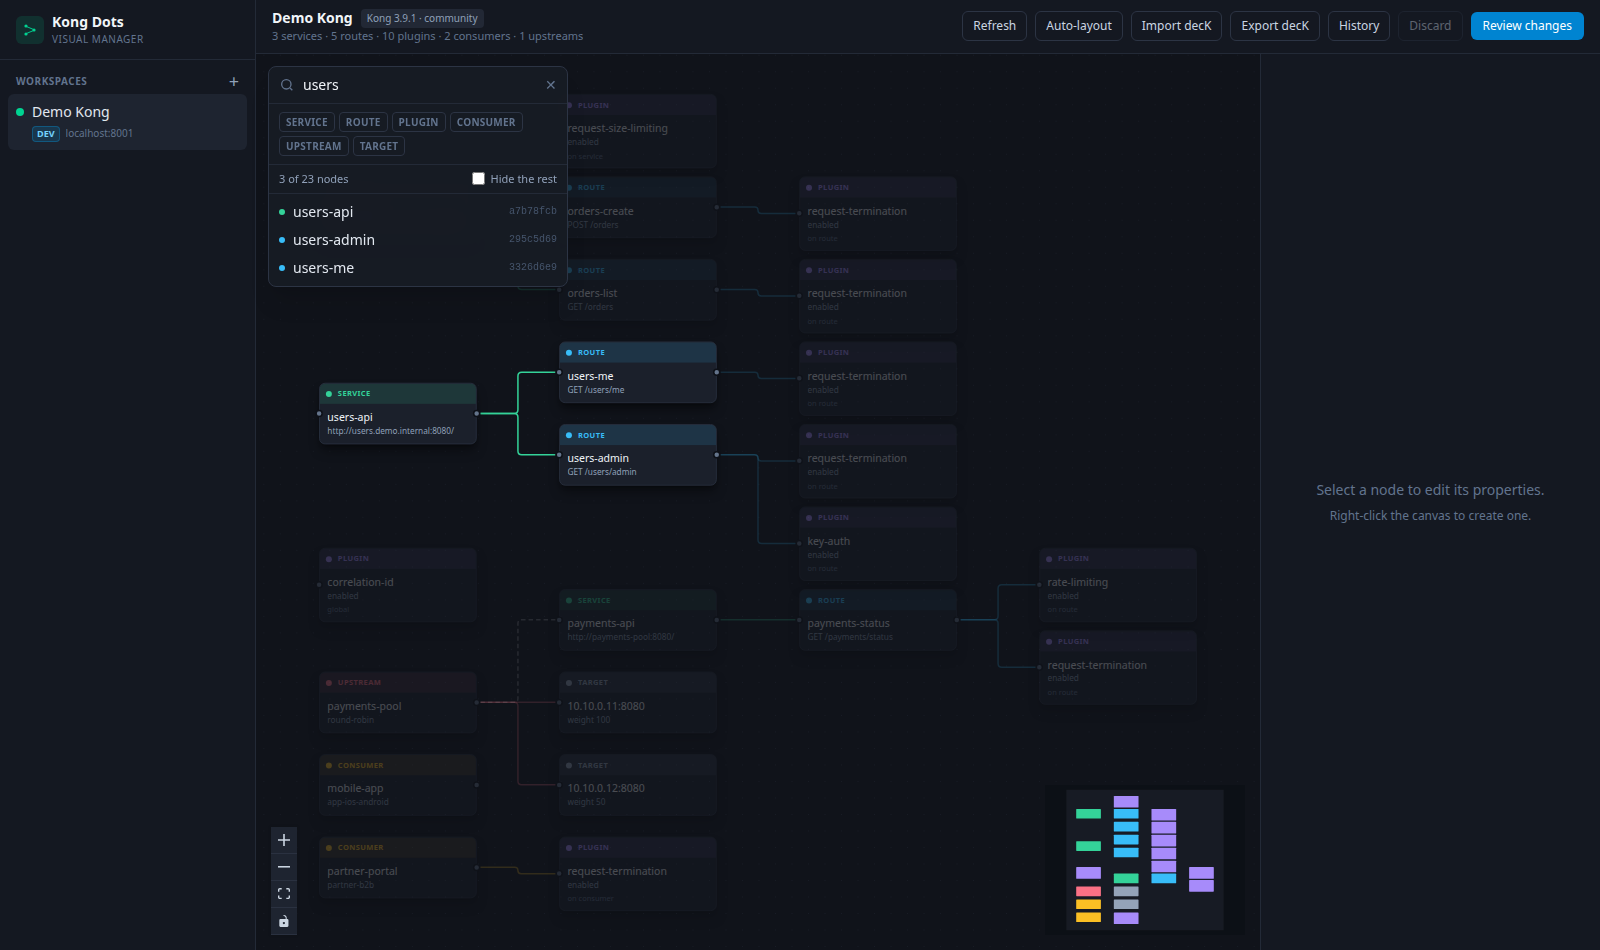
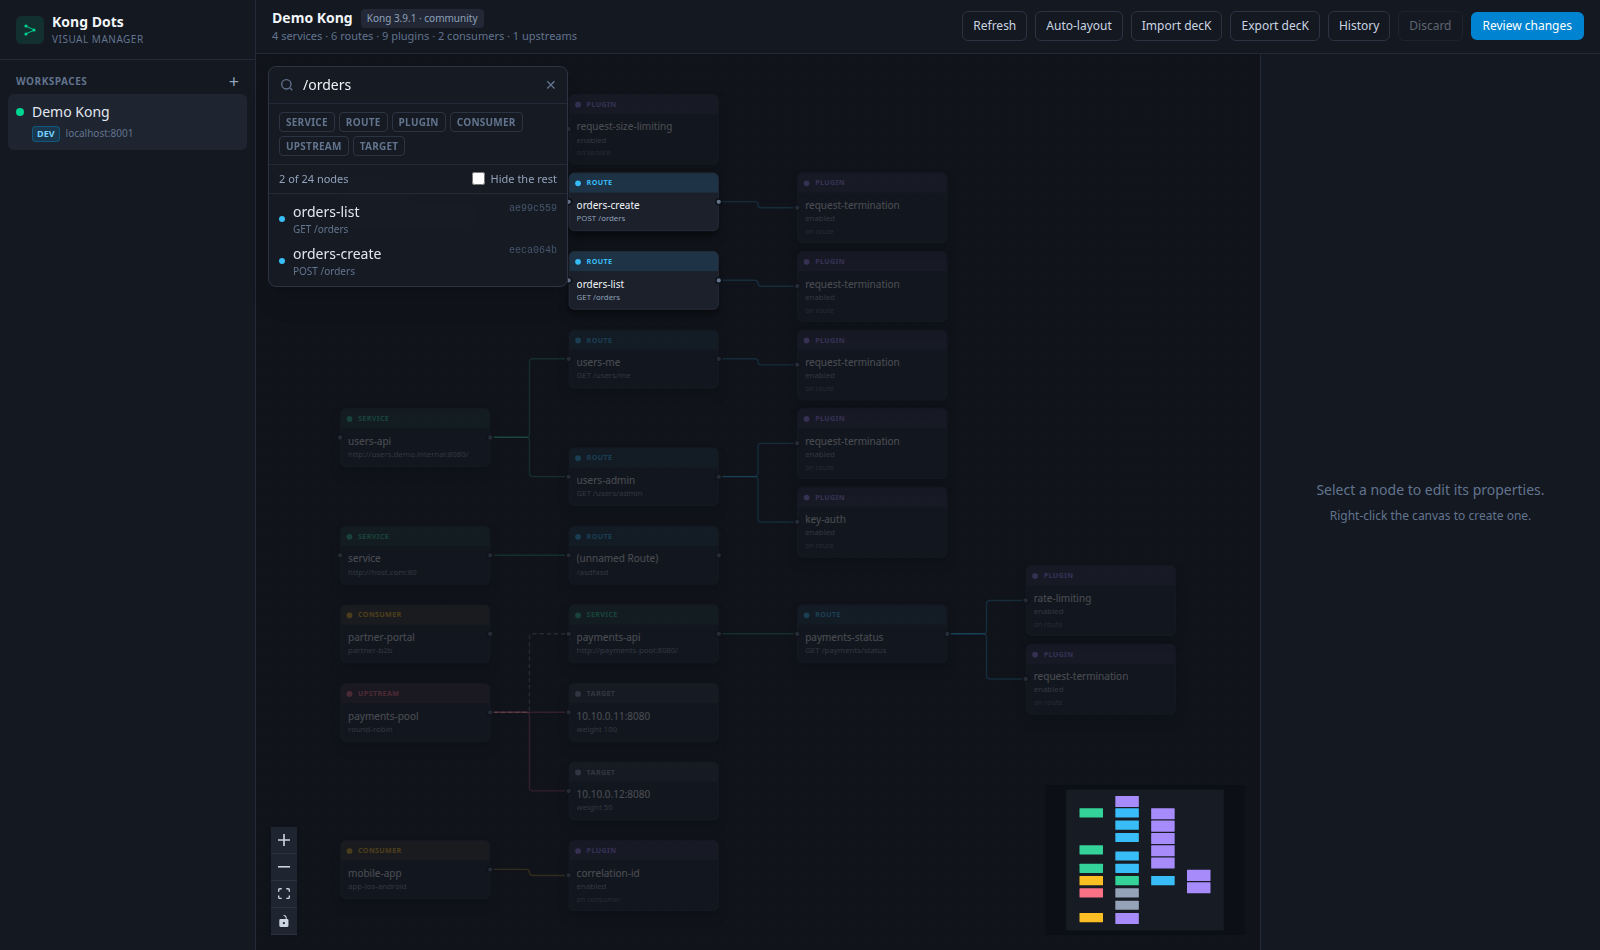
filter by detail

diff --git a/frontend/src/stores/graph.spec.js b/frontend/src/stores/graph.spec.js
@@ -304,6 +304,61 @@ describe('canvas filter', () => {
     expect(graph.filterResults).toEqual([])
   })
 
+  it('matches a Service by its host', async () => {
+    const graph = await freshStore()
+    graph.setFilter({ query: 'billing.internal' })
+    expect(graph.filterResults.map((r) => r.nodeId)).toEqual(['services:svc-1'])
+
+    // a partial host is enough, and it does not drag in same-named entities
+    graph.setFilter({ query: '.internal' })
+    expect(graph.filterResults.map((r) => r.nodeId)).toEqual(['services:svc-1'])
+  })
+
+  it('matches a Route by its path', async () => {
+    const graph = await freshStore()
+    graph.setFilter({ query: '/invoices' })
+    expect(graph.filterResults.map((r) => r.nodeId)).toEqual(['routes:rt-1'])
+
+    graph.setFilter({ query: 'invoic' })
+    expect(graph.filterResults.map((r) => r.nodeId)).toEqual(['routes:rt-1'])
+  })
+
+  it('matches any entry of a list field, and Route hosts and methods too', async () => {
+    const graph = await freshStore({
+      ...LIVE,
+      routes: [
+        {
+          id: 'rt-1',
+          name: 'multi',
+          paths: ['/a', '/deep/second'],
+          hosts: ['api.example.com'],
+          methods: ['GET', 'PATCH'],
+          service: { id: 'svc-1' },
+        },
+      ],
+    })
+    for (const query of ['/deep/second', 'api.example.com', 'patch']) {
+      graph.setFilter({ query })
+      expect(graph.filterResults.map((r) => r.nodeId), `query ${query}`).toEqual(['routes:rt-1'])
+    }
+  })
+
+  it('does not search fields that belong to another kind', async () => {
+    // "billing.internal" is a Service host; no Route should answer to it.
+    const graph = await freshStore()
+    graph.setFilter({ query: 'billing.internal', kinds: ['routes'] })
+    expect(graph.filterResults).toEqual([])
+  })
+
+  it('shows what matched next to each result', async () => {
+    const graph = await freshStore()
+    graph.setFilter({ query: 'billing.internal' })
+    expect(graph.filterResults[0].detail).toContain('billing.internal')
+
+    graph.setFilter({ query: '/invoices' })
+    expect(graph.filterResults[0].detail).toContain('/invoices')
+  })
+
   it('matches consumers by username and targets by address', async () => {
     const graph = await freshStore()
     graph.setFilter({ query: 'mobile' })

diff --git a/frontend/src/api/entities.js b/frontend/src/api/entities.js
@@ -12,6 +12,7 @@ export const KIND_META = {
     singular: 'Service',
     accent: '#34d399',
     labelField: 'name',
+    searchFields: ['name', 'host'],
     subtitle: (e) => `${e.protocol ?? 'http'}://${e.host ?? '?'}:${e.port ?? 80}${e.path ?? ''}`,
     defaults: () => ({ name: '', protocol: 'http', host: '', port: 80, path: '', retries: 5, connect_timeout: 60000, write_timeout: 60000, read_timeout: 60000, enabled: true, tags: [] }),
     fields: [
@@ -32,6 +33,7 @@ export const KIND_META = {
     singular: 'Route',
     accent: '#38bdf8',
     labelField: 'name',
+    searchFields: ['name', 'paths', 'hosts', 'methods'],
     subtitle: (e) => [(e.methods ?? []).join('|'), (e.paths ?? []).join(', ')].filter(Boolean).join(' ') || '(no matcher)',
     defaults: () => ({ name: '', protocols: ['http', 'https'], methods: [], hosts: [], paths: ['/'], strip_path: true, preserve_host: false, https_redirect_status_code: 426, path_handling: 'v0', request_buffering: true, response_buffering: true, tags: [] }),
     fields: [
@@ -51,6 +53,7 @@ export const KIND_META = {
     singular: 'Plugin',
     accent: '#a78bfa',
     labelField: 'name',
+    searchFields: ['name'],
     subtitle: (e) => (e.enabled === false ? 'disabled' : 'enabled'),
     defaults: () => ({ name: '', enabled: true, protocols: ['grpc', 'grpcs', 'http', 'https'], config: {}, tags: [] }),
     fields: [
@@ -64,6 +67,7 @@ export const KIND_META = {
     singular: 'Consumer',
     accent: '#fbbf24',
     labelField: 'username',
+    searchFields: ['username', 'custom_id'],
     subtitle: (e) => e.custom_id || e.username || '',
     defaults: () => ({ username: '', custom_id: '', tags: [] }),
     fields: [
@@ -76,6 +80,7 @@ export const KIND_META = {
     singular: 'Upstream',
     accent: '#fb7185',
     labelField: 'name',
+    searchFields: ['name'],
     subtitle: (e) => e.algorithm ?? 'round-robin',
     defaults: () => ({ name: '', algorithm: 'round-robin', slots: 10000, tags: [] }),
     fields: [
@@ -89,6 +94,7 @@ export const KIND_META = {
     singular: 'Target',
     accent: '#94a3b8',
     labelField: 'target',
+    searchFields: ['target'],
     subtitle: (e) => `weight ${e.weight ?? 100}`,
     defaults: () => ({ target: '', weight: 100, tags: [] }),
     fields: [

diff --git a/frontend/src/stores/graph.js b/frontend/src/stores/graph.js
@@ -77,7 +77,7 @@ export const useGraphStore = defineStore('graph', {
       const out = new Set()
       for (const node of this.allNodes) {
         if (kinds.length && !kinds.includes(node.data.kind)) continue
-        if (query && !matchesQuery(node.data.entity, query)) continue
+        if (query && !matchesQuery(node.data.kind, node.data.entity, query)) continue
         out.add(node.id)
       }
       return out
@@ -93,6 +93,7 @@ export const useGraphStore = defineStore('graph', {
           nodeId: n.id,
           kind: n.data.kind,
           label: entityLabel(n.data.kind, n.data.entity),
+          detail: describeEntity(n.data.kind, n.data.entity),
           entityId: n.data.entity.id,
           draft: n.data.draft,
         }))
@@ -603,12 +604,29 @@ function appliedKeys(ops, results, idMap) {
   return out
 }
 
-// matchesQuery searches the fields a user would type: the entity name (whatever
-// the kind calls it) and the Kong uuid, both as case-insensitive substrings.
-function matchesQuery(entity, query) {
-  for (const key of ['name', 'username', 'target', 'id']) {
+// describeEntity renders the same one-line summary the node shows, so a result
+// row makes it obvious which host or path matched.
+function describeEntity(kind, entity) {
+  try {
+    return KIND_META[kind]?.subtitle?.(entity) ?? ''
+  } catch {
+    return ''
+  }
+}
+
+// matchesQuery searches the fields a user would actually type for that kind —
+// a Service by host, a Route by path — plus the Kong uuid, which every entity
+// has. Matching is case-insensitive and by substring; list fields match when
+// any of their entries does.
+function matchesQuery(kind, entity, query) {
+  if (typeof entity?.id === 'string' && entity.id.toLowerCase().includes(query)) return true
+  for (const key of KIND_META[kind]?.searchFields ?? ['name']) {
     const value = entity?.[key]
-    if (typeof value === 'string' && value.toLowerCase().includes(query)) return true
+    if (typeof value === 'string') {
+      if (value.toLowerCase().includes(query)) return true
+    } else if (Array.isArray(value)) {
+      if (value.some((v) => typeof v === 'string' && v.toLowerCase().includes(query))) return true
+    }
   }
   return false
 }

diff --git a/frontend/src/components/FilterBar.vue b/frontend/src/components/FilterBar.vue
@@ -47,7 +47,7 @@ onUnmounted(() => window.removeEventListener('keydown', onKeydown))
           ref="input"
           :value="graph.filter.query"
           class="w-full bg-transparent text-slate-100 placeholder:text-slate-500 focus:outline-none"
-          placeholder="Filter by name or uuid…"
+          placeholder="Filter by name, host, path or uuid…"
           @input="graph.setFilter({ query: $event.target.value }); showResults = true"
           @focus="showResults = true"
           @keydown.esc="graph.clearFilter(); showResults = false"
@@ -104,8 +104,11 @@ onUnmounted(() => window.removeEventListener('keydown', onKeydown))
         <li v-for="r in results.slice(0, 50)" :key="r.nodeId">
           <button class="flex w-full items-center gap-2 px-2.5 py-1 text-left hover:bg-[#222835]" @click="pick(r)">
             <span class="h-1.5 w-1.5 shrink-0 rounded-full" :style="{ backgroundColor: KIND_META[r.kind].accent }" />
-            <span class="truncate text-slate-200">{{ r.label }}</span>
-            <span class="ml-auto shrink-0 font-mono text-[10px] text-slate-600">
+            <span class="min-w-0 flex-1">
+              <span class="block truncate text-slate-200">{{ r.label }}</span>
+              <span v-if="r.detail" class="block truncate text-[10px] text-slate-500">{{ r.detail }}</span>
+            </span>
+            <span class="shrink-0 self-start font-mono text-[10px] text-slate-600">
               {{ r.draft ? 'new' : String(r.entityId).slice(0, 8) }}
             </span>
           </button>

diff --git a/README.md b/README.md
@@ -138,13 +138,27 @@ frontend/ (Vue 3 + Vue Flow + Pinia + Tailwind)      backend/ (Go + gin)
 
 ### Finding things on a big canvas
 
-The filter box (top-left of the canvas, or press <kbd>/</kbd>) matches the **entity name and its
-Kong uuid**, case-insensitively and by substring, and the kind chips narrow it to Services, Routes,
-Plugins, Consumers, Upstreams or Targets. Matches stay lit while everything else fades, so the
-surrounding topology is still readable; **Hide the rest** removes the non-matching nodes (and any
-edge that would dangle) when the graph is too dense. Results are listed with their short uuid —
-clicking one selects and recentres it. Filtering is purely a view: it never changes what an apply
-sends to Kong.
+The filter box (top-left of the canvas, or press <kbd>/</kbd>) matches case-insensitively, by
+substring, on the fields that actually identify each kind — plus the Kong uuid, which everything
+has:
+
+| Kind | Searched |
+|---|---|
+| Service | name, **host** |
+| Route | name, **paths**, hosts, methods |
+| Plugin | name |
+| Consumer | username, custom_id |
+| Upstream | name |
+| Target | target address |
+
+So `/payments/status` finds the Route serving it, and `payments-pool` finds both the Upstream of
+that name and the Service pointing at it. List fields match on any entry, so one path out of five
+is enough. The kind chips narrow the search further.
+
+Matches stay lit while everything else fades, so the surrounding topology is still readable;
+**Hide the rest** removes the non-matching nodes (and any edge that would dangle) when the graph is
+too dense. Each result is listed with what matched and its short uuid — clicking one selects and
+recentres it. Filtering is purely a view: it never changes what an apply sends to Kong.
 
 ![filter](docs/filter.png)
 
